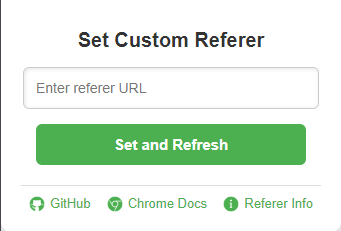
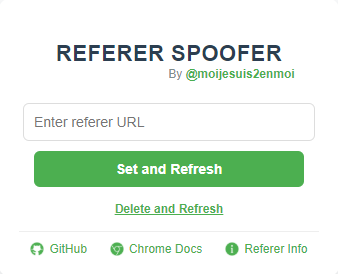
v1.1.0

diff --git a/src/popup.html b/src/popup.html
@@ -4,104 +4,19 @@
 <head>
     <meta charset="UTF-8">
     <title>Referer Spoofer</title>
-    <style>
-        body {
-            font-family: Arial, sans-serif;
-            background-color: #f4f4f9;
-            margin: 0;
-            padding: 0;
-            display: flex;
-            justify-content: center;
-            align-items: center;
-            height: 220px;
-        }
-
-        .container {
-            background-color: white;
-            padding: 20px;
-            border-radius: 10px;
-            box-shadow: 0 4px 12px rgba(0, 0, 0, 0.15);
-            width: 300px;
-            text-align: center;
-        }
-
-        h3 {
-            color: #333;
-            font-size: 20px;
-            margin-bottom: 15px;
-            font-weight: bold;
-        }
-
-        input[type="text"] {
-            width: 90%;
-            padding: 12px;
-            margin-bottom: 15px;
-            border: 1px solid #ccc;
-            border-radius: 6px;
-            font-size: 14px;
-            box-shadow: inset 1px 1px 4px rgba(0, 0, 0, 0.1);
-            transition: border 0.3s ease;
-        }
-
-        input[type="text"]:focus {
-            border-color: #4CAF50;
-            outline: none;
-        }
-
-        button {
-            width: 90%;
-            padding: 12px;
-            background-color: #4CAF50;
-            color: white;
-            border: none;
-            border-radius: 6px;
-            font-size: 15px;
-            font-weight: bold;
-            cursor: pointer;
-            transition: background-color 0.3s ease;
-        }
-
-        button:hover {
-            background-color: #45a049;
-        }
-
-        .links {
-            margin-top: 20px;
-            display: flex;
-            justify-content: space-around;
-            padding-top: 10px;
-            border-top: 1px solid #ddd;
-        }
-
-        .links a {
-            color: #4CAF50;
-            text-decoration: none;
-            font-size: 13px;
-            display: flex;
-            align-items: center;
-            gap: 5px;
-            transition: color 0.3s ease;
-        }
-
-        .links a:hover {
-            color: #388E3C;
-        }
-
-        .links img {
-            width: 16px;
-            height: 16px;
-        }
-    </style>
+    <link rel="stylesheet" href="popup.css">
 </head>
 
 <body>
     <div class="container">
-        <h3>Set Custom Referer</h3>
+        <h3>Referer Spoofer</h3>
+        <p class="author">By <a href="https://github.com/Siin0pe" target="_blank" class="github-link">@Siin0pe</a></p>
         <input type="text" id="referer" placeholder="Enter referer URL" />
         <button id="setReferer">Set and Refresh</button>
+        <button id="deleteReferer">Delete and Refresh</button>
 
         <div class="links">
-            <a href="https://github.com/Siin0pe" target="_blank">
+            <a href="https://github.com/Siin0pe/chrome-referer-spoofer" target="_blank">
                 <img src="https://img.icons8.com/ios-filled/50/4CAF50/github.png" alt="GitHub Icon" /> GitHub
             </a>
             <a href="https://developer.chrome.com/docs/extensions/" target="_blank">

diff --git a/src/popup.js b/src/popup.js
@@ -1,21 +1,65 @@
-document.getElementById("setReferer").addEventListener("click", () => {
-    const referer = document.getElementById("referer").value;
-    chrome.storage.local.set({ referer }, () => {
-      chrome.tabs.query({ active: true, currentWindow: true }, (tabs) => {
-        const tabId = tabs[0].id;
-  
-        chrome.scripting.executeScript({
-          target: { tabId },
+function reloadActiveTab() {
+  chrome.tabs.query({ active: true, currentWindow: true }, (tabs) => {
+      if (chrome.runtime.lastError || !tabs[0]) {
+          console.error("Erreur lors de la récupération de l'onglet actif :", chrome.runtime.lastError);
+          return;
+      }
+      chrome.scripting.executeScript({
+          target: { tabId: tabs[0].id },
           func: () => window.location.reload()
-        });
-  
-        setTimeout(() => {
-          chrome.scripting.executeScript({
-            target: { tabId },
-            func: () => window.location.reload()
-          });
-        }, 1000);
       });
-    });
   });
-  
+}
+
+
+function updateDynamicRules(addRules = [], removeRuleIds = []) {
+  chrome.declarativeNetRequest.updateDynamicRules({ addRules, removeRuleIds }, () => {
+      if (chrome.runtime.lastError) {
+          console.error("Erreur lors de la mise à jour des règles :", chrome.runtime.lastError);
+      } else {
+          reloadActiveTab();
+      }
+  });
+}
+
+document.getElementById("setReferer").addEventListener("click", () => {
+  const referer = document.getElementById("referer").value.trim();
+  if (!referer) {
+      console.warn("Le champ Referer est vide.");
+      return;
+  }
+
+  chrome.storage.local.set({ referer }, () => {
+      if (chrome.runtime.lastError) {
+          console.error("Erreur lors de l'enregistrement du referer :", chrome.runtime.lastError);
+          return;
+      }
+
+      const rule = {
+          id: 1,
+          priority: 1,
+          action: {
+              type: "modifyHeaders",
+              requestHeaders: [
+                  { header: "Referer", operation: "set", value: referer }
+              ]
+          },
+          condition: {
+              urlFilter: "*",
+              resourceTypes: ["main_frame"]
+          }
+      };
+
+      updateDynamicRules([rule], [1]);
+  });
+});
+
+document.getElementById("deleteReferer").addEventListener("click", () => {
+  chrome.storage.local.remove("referer", () => {
+      if (chrome.runtime.lastError) {
+          console.error("Erreur lors de la suppression du referer :", chrome.runtime.lastError);
+          return;
+      }
+      updateDynamicRules([], [1]);
+  });
+});

diff --git a/src/popup.css b/src/popup.css
@@ -1,0 +1,133 @@
+/* Global Styles */
+body {
+    font-family: 'Arial', sans-serif;
+    background-color: #f9fafb;
+    margin: 0;
+    padding: 0;
+    display: flex;
+    justify-content: center;
+    align-items: center;
+    height: 100vh;
+    color: #333;
+}
+
+/* Container */
+.container {
+    background-color: white;
+    padding: 20px;
+    border-radius: 10px;
+    box-shadow: 0 4px 10px rgba(0, 0, 0, 0.1);
+    width: 300px; 
+    text-align: center;
+}
+
+/* Title */
+h3 {
+    color: #2c3e50;
+    font-size: 22px;
+    margin-bottom: 5px;
+    font-weight: bold;
+    text-transform: uppercase;
+    letter-spacing: 0.5px;
+}
+
+/* Author */
+.author {
+    font-size: 12px;
+    color: #7f8c8d;
+    text-align: center;
+    margin-top: -5px;
+    margin-left: 125px;
+}
+
+.author .github-link {
+    color: #4CAF50;
+    text-decoration: none;
+    font-weight: bold;
+    font-size: 12px;
+    transition: color 0.3s ease, text-decoration 0.3s ease;
+}
+
+.author .github-link:hover {
+    color: #388E3C;
+    text-decoration: underline;
+}
+
+/* Input Field */
+input[type="text"] {
+    width: 90%;
+    padding: 10px;
+    margin: 10px 0;
+    border: 1px solid #ddd;
+    border-radius: 6px;
+    font-size: 14px;
+    transition: border 0.3s ease;
+}
+
+input[type="text"]:focus {
+    border-color: #4CAF50;
+    outline: none;
+    box-shadow: 0 0 5px rgba(76, 175, 80, 0.2);
+}
+
+/* Buttons */
+button {
+    width: 90%;
+    padding: 10px;
+    border: none;
+    border-radius: 6px;
+    font-size: 14px;
+    font-weight: bold;
+    cursor: pointer;
+    transition: background-color 0.3s ease, transform 0.2s ease;
+}
+
+#setReferer {
+    background-color: #4CAF50;
+    color: white;
+}
+
+#setReferer:hover {
+    background-color: #45a049;
+    transform: scale(1.02);
+}
+
+#deleteReferer {
+    background-color: transparent;
+    color: #4CAF50;
+    font-size: 12px;
+    cursor: pointer;
+    text-decoration: underline;
+    margin: 5px auto;
+}
+
+#deleteReferer:hover {
+    transform: scale(1.01);
+}
+
+.links {
+    margin-top: 0; 
+    display: flex;
+    justify-content: space-around;
+    padding-top: 10px;
+    border-top: 1px solid #eee;
+}
+
+.links a {
+    color: #4CAF50;
+    text-decoration: none;
+    font-size: 12px;
+    display: flex;
+    align-items: center;
+    gap: 5px;
+    transition: color 0.3s ease;
+}
+
+.links a:hover {
+    color: #388E3C;
+}
+
+.links img {
+    width: 14px;
+    height: 14px;
+}

diff --git a/README.md b/README.md
@@ -1,3 +1,7 @@
+Voici une version mise à jour de votre README, intégrant les nouvelles fonctionnalités ajoutées au code :
+
+---
+
 # Referer Spoofer - Chrome Extension
 
 **Referer Spoofer** is a Chrome extension that allows users to set a custom Referer header for their HTTP requests. This tool is particularly useful for developers who need to test referer-based functionalities or simulate traffic sources in web applications.
@@ -7,9 +11,11 @@
 ## Features
 
 - **Easy Customization**: Set a custom Referer header through a user-friendly interface.
-- **Instant Page Refresh**: Automatically refreshes the page after applying the new referer.
+- **Instant Page Refresh**: Automatically refreshes the page after applying or removing the referer.
+- **Referer Removal**: Quickly reset and remove the custom Referer header.
+- **Dynamic Rules Management**: Implements rules dynamically to modify HTTP headers without requiring page reloads.
+- **Error Handling**: Improved error handling ensures smooth user experience and feedback for invalid inputs or system issues.
 - **Developer-Friendly**: Ideal for testing behaviors related to referer-based traffic and redirections.
-- **Quick Access Links**: Includes useful links to documentation and resources for easy reference.
 
 ## Installation
 
@@ -18,6 +24,7 @@
    ```bash
    git clone https://github.com/yourusername/referer-spoofer-extension.git
    ```
+
 2. Open Chrome and navigate to `chrome://extensions/`.
 3. Enable **Developer mode** by toggling the switch in the upper right corner.
 4. Click on **Load unpacked** and select the `src` folder from the cloned repository.
@@ -26,17 +33,21 @@
 ## Usage
 
 1. Click on the **Referer Spoofer** icon in the Chrome toolbar.
-2. Enter the URL you want to set as the custom referer.
-3. Click on **Set and Refresh** to apply the referer and refresh the page.
+2. To set a custom referer:
+   - Enter the URL you want to use as the referer in the input field.
+   - Click on **Set Referer** to apply the custom header.
+3. To remove the custom referer:
+   - Click on **Delete Referer** to reset to the default behavior.
+4. The page will automatically refresh after applying or removing the referer.
 
 ## Permissions Justification
 
 This extension requires the following permissions to function properly:
 
-- **declarativeNetRequest**: To modify outgoing HTTP request headers, allowing the custom referer to be set.
+- **declarativeNetRequest**: To modify outgoing HTTP request headers, allowing the custom referer to be set or removed dynamically.
 - **activeTab**: To interact with the current active tab where the user has enabled the extension.
 - **storage**: To save the custom referer temporarily for reuse.
-- **scripting**: To inject a script that refreshes the page after applying the new referer.
+- **scripting**: To inject a script that refreshes the page after applying or removing the referer.
 - **Host Access Permission**: To modify request headers on specified domains chosen by the user.
 
 Each of these permissions is essential for providing the extension's core functionality and is used strictly in line with its purpose.
